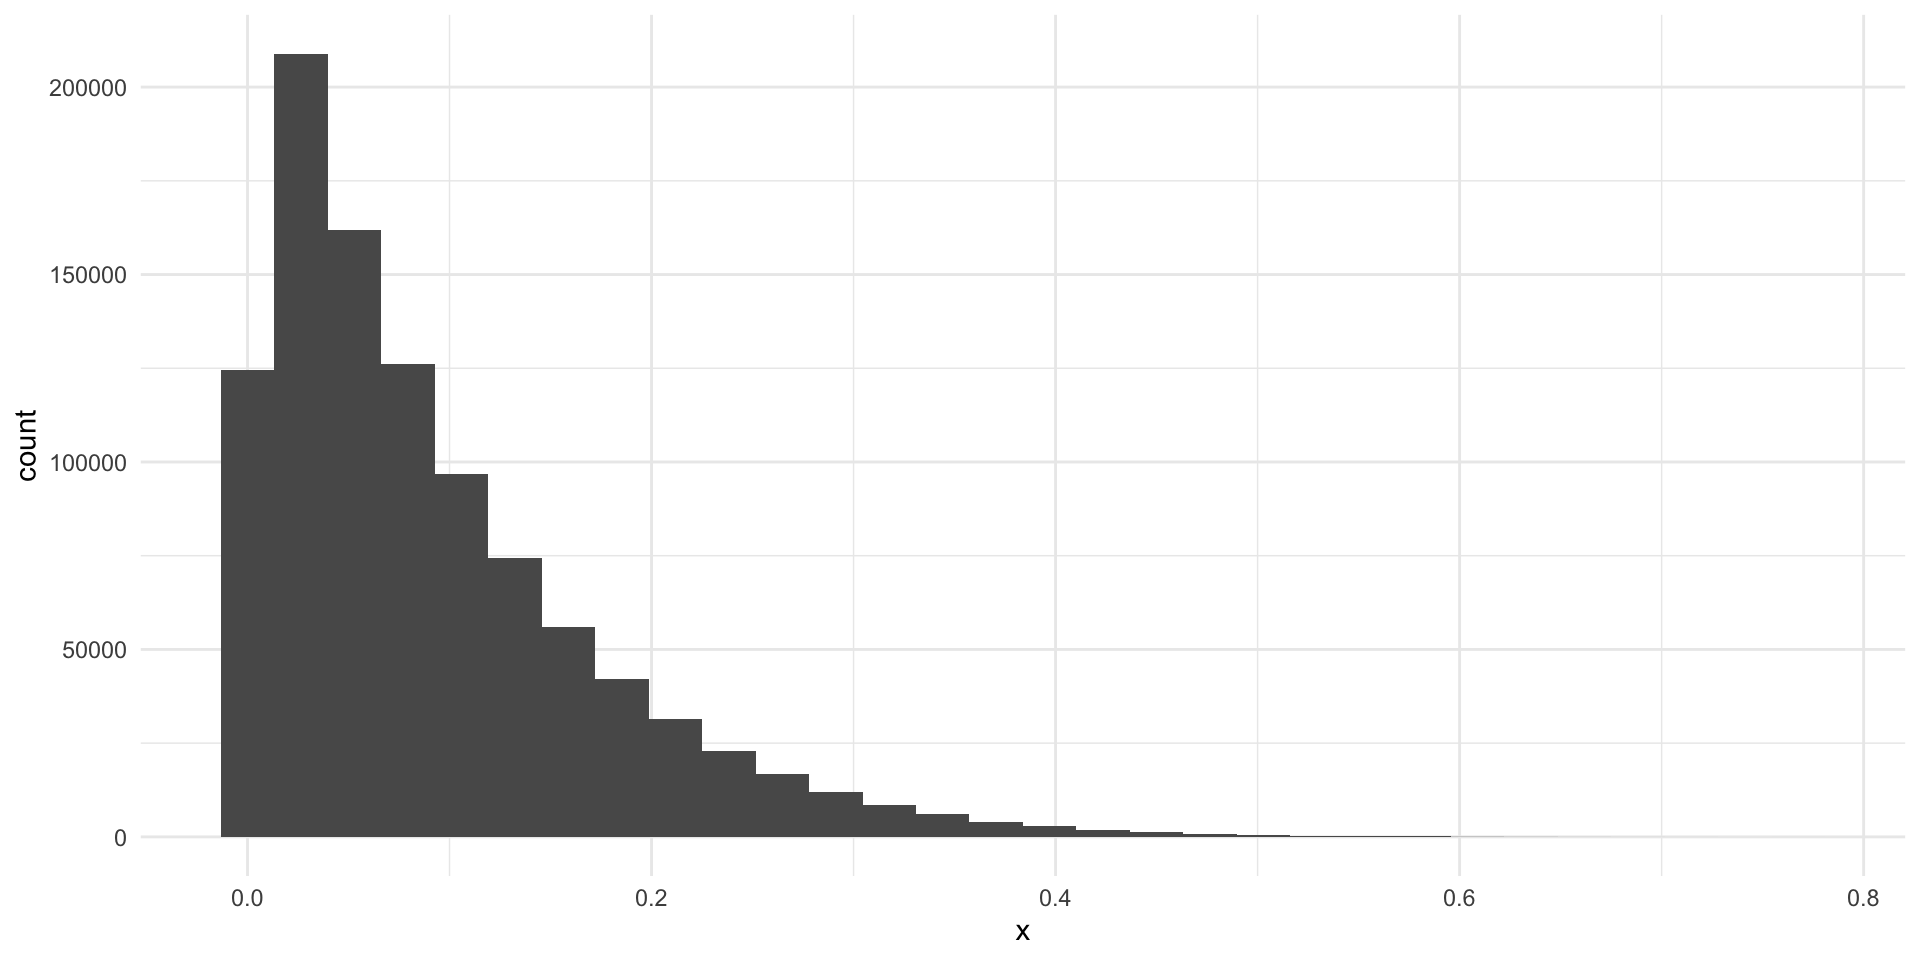
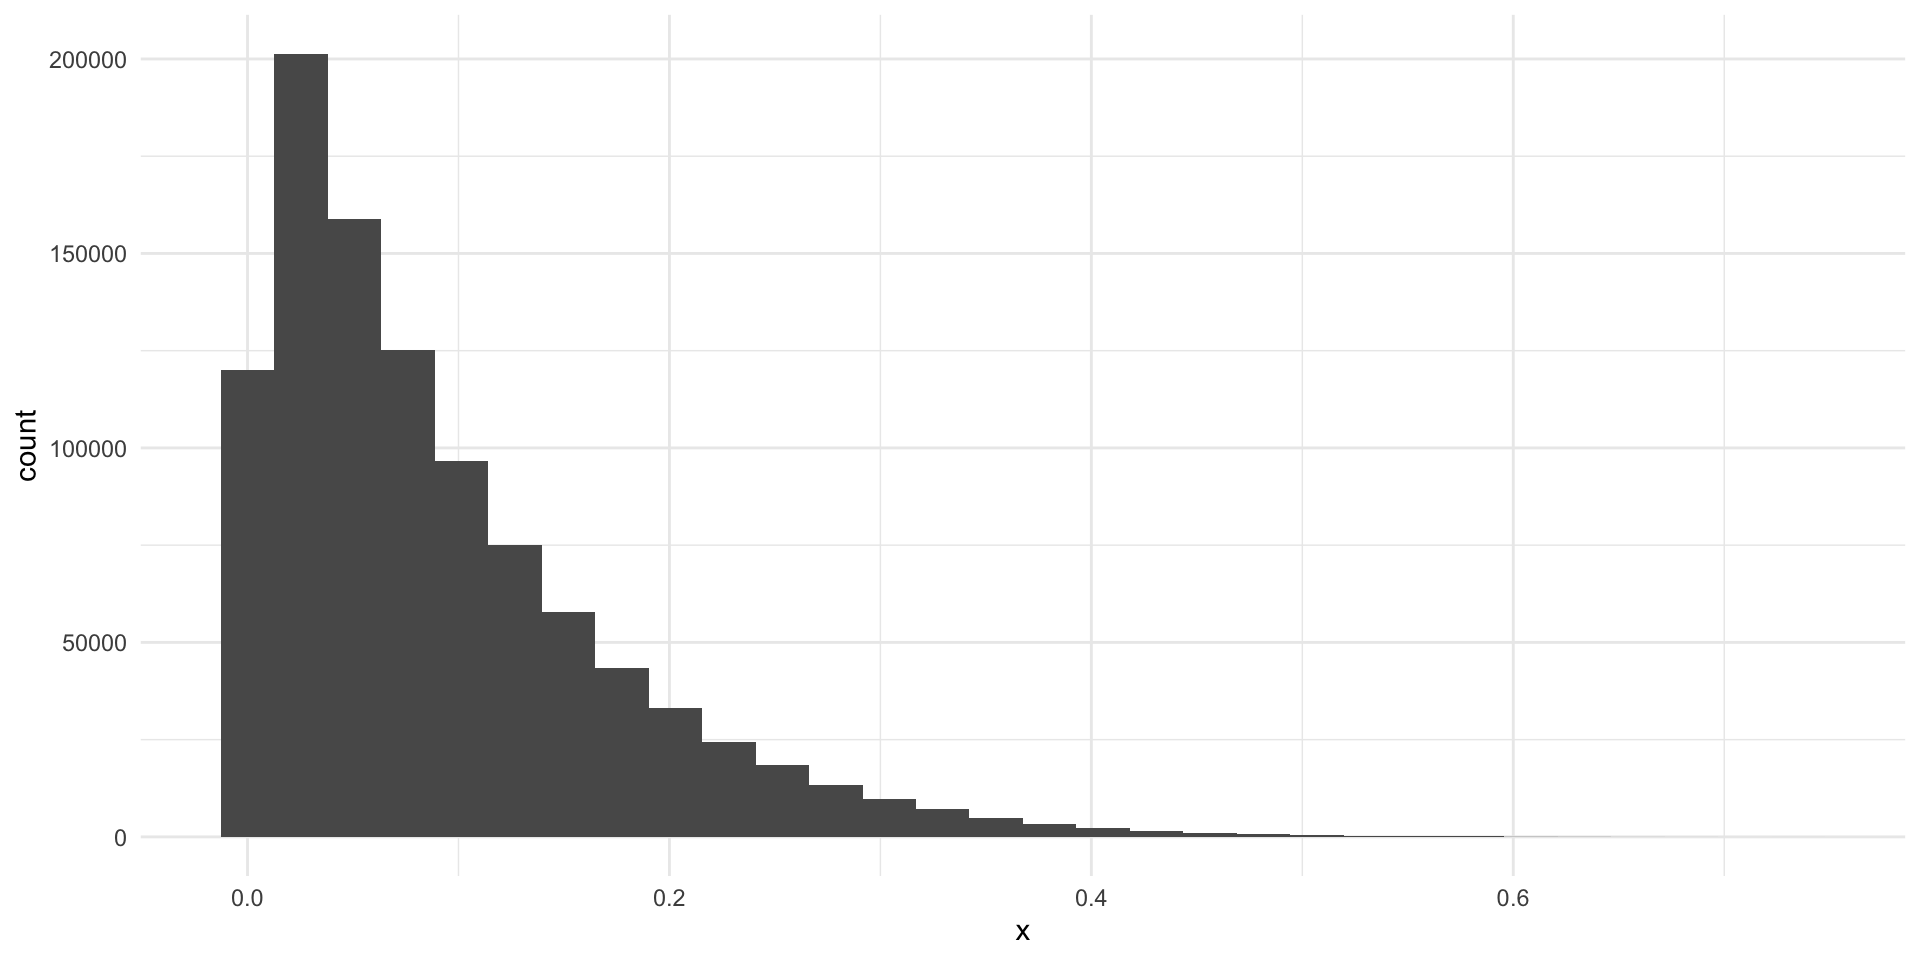
Update probability and inference

diff --git a/docs/content/07-statistical_inference.html b/docs/content/07-statistical_inference.html
@@ -253,6 +253,7 @@ pre > code.sourceCode > span > a:first-child::before { text-decoration: underlin
   <li><a href="#inferring-from-a-single-trial" id="toc-inferring-from-a-single-trial" class="nav-link" data-scroll-target="#inferring-from-a-single-trial">Inferring from a single “trial”</a></li>
   <li><a href="#how-confident-can-we-be-in-our-statistic" id="toc-how-confident-can-we-be-in-our-statistic" class="nav-link" data-scroll-target="#how-confident-can-we-be-in-our-statistic">How confident can we be in our statistic?</a></li>
   <li><a href="#choosing-your-sample-size" id="toc-choosing-your-sample-size" class="nav-link" data-scroll-target="#choosing-your-sample-size">Choosing your sample size</a></li>
+  <li><a href="#next-week" id="toc-next-week" class="nav-link" data-scroll-target="#next-week">Next week</a></li>
   </ul></li>
   </ul>
 </nav>
@@ -306,8 +307,8 @@ pre > code.sourceCode > span > a:first-child::before { text-decoration: underlin
 <h3 class="anchored" data-anchor-id="population-and-sample">Population and sample</h3>
 <p>Say we are interested in the proportion of US voters who will vote for Joe Biden in the 2024 general election. We cannot ask all US voters of their intentions. Instead, we ask a sample of the US voting population and infer from that sample the population’s intentions.</p>
 <blockquote class="blockquote">
-<p>The data point of interest among the population is referred to as the <strong>parameter</strong>. Here, it is the proportion of <em>US voters</em> who will vote for Joe Biden in the 2024 general election.</p>
-<p>The data point of interest among the sample is referred to as the <strong>statistic</strong>. Here, it is the proportion of <em>survey respondents</em> who will vote for Joe Biden in the 2024 general election.</p>
+<p>The data point of interest among the population is referred to as the <strong>parameter</strong>. Here, it is the proportion of <em>US voters</em> who intend to vote for Joe Biden in the 2024 general election.</p>
+<p>The data point of interest among the sample is referred to as the <strong>statistic</strong>. Here, it is the proportion of <em>survey respondents</em> who intend to vote for Joe Biden in the 2024 general election.</p>
 <p>We aim to have a statistic that accurately represents the parameter.</p>
 </blockquote>
 <p>When we generalize from the sample statistic to the parameter we are engaging in statistical inference.</p>
@@ -421,6 +422,7 @@ pre > code.sourceCode > span > a:first-child::before { text-decoration: underlin
 <p>The lessons we can take from this is that more is better. The more times you flip that coin, the closer you will get to the true underlying probability of a fair coin landing on heads.</p>
 <blockquote class="blockquote">
 <p>You will need to make important decisions in your own research regarding the number of samples with which you are comfortable. This will be constrained by your budget, time, and population. You will get a more accurate picture of the parameter with more data points. However, adding another 1,000,000 responses to your survey may result in a change so small it has no material impact what you infer from your analysis. If this is the case and you have a representative sample, you are well justified in not running yourself dry trying to get those extra observations.</p>
+<p>For more information on working out the smallest acceptable sample size for an experiment, look up <strong>power analysis</strong>.</p>
 </blockquote>
 </section>
 <section id="sampling-distributions" class="level3">
@@ -441,7 +443,7 @@ pre > code.sourceCode > span > a:first-child::before { text-decoration: underlin
 6   5880   0</code></pre>
 </div>
 </div>
-<p>Let’s very cheekily pretend that this is a complete survey of the entire voting population of America. That way, we can pretend that we know the proportion of US voters who identify as Democrats.</p>
+<p>Let’s very cheekily pretend that this is a complete survey of the entire voting population of America. That way, we can pretend that we know the proportion of US voters who identify as Democrats (our parameter).</p>
 <div class="cell">
 <div class="sourceCode cell-code" id="cb13"><pre class="sourceCode r code-with-copy"><code class="sourceCode r"><span id="cb13-1"><a href="#cb13-1" aria-hidden="true" tabindex="-1"></a><span class="fu">tabyl</span>(nes, dem)</span></code><button title="Copy to Clipboard" class="code-copy-button"><i class="bi"></i></button></pre></div>
 <div class="cell-output cell-output-stdout">
@@ -469,7 +471,7 @@ pre > code.sourceCode > span > a:first-child::before { text-decoration: underlin
   NA   14 0.004666667            NA</code></pre>
 </div>
 </div>
-<p>40%. Nice! But what if we took a different sample of 3,000?</p>
+<p>39.70%. Nice! But what if we took a different sample of 3,000?</p>
 <div class="cell">
 <div class="sourceCode cell-code" id="cb18"><pre class="sourceCode r code-with-copy"><code class="sourceCode r"><span id="cb18-1"><a href="#cb18-1" aria-hidden="true" tabindex="-1"></a>nes_sample_2 <span class="ot">&lt;-</span> nes <span class="sc">|&gt;</span> </span>
 <span id="cb18-2"><a href="#cb18-2" aria-hidden="true" tabindex="-1"></a>  <span class="fu">select</span>(caseid, dem) <span class="sc">|&gt;</span> </span>
@@ -484,7 +486,7 @@ pre > code.sourceCode > span > a:first-child::before { text-decoration: underlin
   NA    9   0.003            NA</code></pre>
 </div>
 </div>
-<p>We get a different answer: 40%. Of course! This is just like our different coin flip trials from last week. Each resulted in a different number of heads. The more flips we did, the closer we got to the true underlying probability distribution.</p>
+<p>We get a different answer: 40.40%. Of course! This is just like our different coin flip trials from last week. Each resulted in a different number of heads. The more flips we did, the closer we got to the true underlying probability distribution.</p>
 <p>Let’s take 1,000 different samples of 3,000 US voters and see what we get:</p>
 <div class="cell">
 <div class="sourceCode cell-code" id="cb21"><pre class="sourceCode r code-with-copy"><code class="sourceCode r"><span id="cb21-1"><a href="#cb21-1" aria-hidden="true" tabindex="-1"></a>dem_survey <span class="ot">&lt;-</span> <span class="cf">function</span>(df, n) {</span>
@@ -689,7 +691,8 @@ mean \pm z * se
 S_{\bar{x}} = \frac{S}{\sqrt{n}}
 \]</span></p>
 <p>So, as you increase that <span class="math inline">\(n\)</span>, you decrease your standard error and you narrow the interval over which you have a given level of confidence.</p>
-<p>I have said before that more is always better. Technically, this is very, very true. But those returns are marginal. And those survey costs stack up.</p>
+<p>I have said before that more is always better. Technically, this is very, very true. But those marginal returns diminish. And those survey costs stack up.</p>
+<p>To illustrate, let’s look at how much your standard error decreases as you increase your sample size.</p>
 <div class="cell">
 <div class="sourceCode cell-code" id="cb42"><pre class="sourceCode r code-with-copy"><code class="sourceCode r"><span id="cb42-1"><a href="#cb42-1" aria-hidden="true" tabindex="-1"></a>se_from_sample <span class="ot">&lt;-</span> <span class="cf">function</span>(n_samples) {</span>
 <span id="cb42-2"><a href="#cb42-2" aria-hidden="true" tabindex="-1"></a>  </span>
@@ -713,6 +716,10 @@ S_{\bar{x}} = \frac{S}{\sqrt{n}}
 </div>
 </div>
 <p>Moving from 100 to 1,000 observations in your sample dramatically decreases your standard error. Moving the same distance from 1,000 to 1,900 makes a far smaller difference to your error.</p>
+</section>
+<section id="next-week" class="level3">
+<h3 class="anchored" data-anchor-id="next-week">Next week</h3>
+<p>We will discuss the guts of quantitative analysis: hypothesis testing.</p>
 
 
 </section>

diff --git a/docs/content/06-probability_theory.html b/docs/content/06-probability_theory.html
@@ -244,7 +244,6 @@ pre > code.sourceCode > span > a:first-child::before { text-decoration: underlin
   <li><a href="#section" id="toc-section" class="nav-link" data-scroll-target="#section">Section</a>
   <ul>
   <li><a href="#prerequisites" id="toc-prerequisites" class="nav-link" data-scroll-target="#prerequisites">Prerequisites</a></li>
-  <li><a href="#how-will-what-you-learn-this-week-help-your-research" id="toc-how-will-what-you-learn-this-week-help-your-research" class="nav-link" data-scroll-target="#how-will-what-you-learn-this-week-help-your-research">How will what you learn this week help your research?</a></li>
   <li><a href="#randomness-and-avoiding-doing-the-dishes" id="toc-randomness-and-avoiding-doing-the-dishes" class="nav-link" data-scroll-target="#randomness-and-avoiding-doing-the-dishes">Randomness and avoiding doing the dishes</a></li>
   <li><a href="#independence" id="toc-independence" class="nav-link" data-scroll-target="#independence">Independence</a></li>
   <li><a href="#the-law-of-large-numbers" id="toc-the-law-of-large-numbers" class="nav-link" data-scroll-target="#the-law-of-large-numbers">The law of large numbers</a></li>
@@ -294,9 +293,6 @@ pre > code.sourceCode > span > a:first-child::before { text-decoration: underlin
 <p>Today, we are working with randomness and chance. To make sure we are all working with the same randomness and chance, you need to set your seed! <code>set.seed()</code> sets the random number generator state in which R will operate for this session. The draws we make in the session are still random, but they will be the same random draw each time we take it. This is important for replication, so you will use it outside of class.</p>
 </blockquote>
 </section>
-<section id="how-will-what-you-learn-this-week-help-your-research" class="level3">
-<h3 class="anchored" data-anchor-id="how-will-what-you-learn-this-week-help-your-research">How will what you learn this week help your research?</h3>
-</section>
 <section id="randomness-and-avoiding-doing-the-dishes" class="level3">
 <h3 class="anchored" data-anchor-id="randomness-and-avoiding-doing-the-dishes">Randomness and avoiding doing the dishes</h3>
 <p>Imagine you and a friend are trying to decide who will do the dishes after you have both cooked a very large and very messy meal. You agree to flip a coin. Should you pick heads or tails?</p>
@@ -340,9 +336,10 @@ HEADS TAILS
 <h3 class="anchored" data-anchor-id="independence">Independence</h3>
 <p>You want to maximize your chances of not doing the dishes (i.e.&nbsp;of picking the winning side of the coin). To do this, you need to know all possible outcomes (heads and tails) and the probability that each of those outcomes will eventuate. To learn this, you ran a trial in which you flipped the coin 10 times and recorded the outcome of each flip. How can you trust that this trial is revealing the true underlying probabilities of heads vs.&nbsp;tails?</p>
 <p>Each time you flipped that coin, you undertook the very process you will eventually take to decide who has to do the dishes. You will only flip that deciding coin once, so you need to know what the chances are that the coin will land on heads or tails that one time. You can’t ever observe that. If you flip a coin once, you will either see heads or tails. But we know that if we flip it again we might get a different outcome. In other words, if you flip a coin once and it lands on heads, this does not necessarily mean that the probability of heads is 1 and the probability of tails is 0 (or that you will always get heads). We use trials to try to estimate the unobservable underlying probabilities of each possible outcome of a single coin flip.</p>
-<p>To make sure that we can infer from our many observed flips the underlying and unobservable probability of heads vs.&nbsp;tails of one coin flip, we need to make sure that our trials meet certain conditions. The first is <strong>independence</strong>: the outcome of any other flips cannot impact the outcome of the current flip.</p>
+<p>To make sure that we can infer from our observed flips the underlying and unobservable probability of heads vs.&nbsp;tails of one coin flip, we need to make sure that our trials meet certain conditions. The first is <strong>independence</strong>: the outcome of any other flips cannot impact the outcome of the current flip.</p>
 <p>For example, let’s go back to our bag of 10 different marbles. Say there are 2 red, 3 blue, and 5 green marbles in your bag. You want to know the probability of drawing out a green marble. You pull out a marble. We know that there is a 20% chance your marble will be red, a 30% chance it will be blue, and a 50% chance it will be green. It is green. You then do not replace the marble before your next draw. Now, there is a 22% chance that marble will be red, a 33% chance it is blue, and a 44% chance it will be green (there are now only nine marbles in your bag: 2 red, 3, blue, and 4 green). These draws are not independent of each other! Your first draw changed the underlying probability of drawing a green marble in your second draw.</p>
-<p>If your draws are independent of one another, you can infer from the results of the trial the underlying probability of each outcome eventuating. But we did that and we still got uneven results:</p>
+<p>If your draws are independent of one another, you can infer from the results of the trial the underlying probability of each outcome eventuating.</p>
+<p>But hold on: we did that and we still got uneven results!</p>
 <div class="cell">
 <div class="sourceCode cell-code" id="cb8"><pre class="sourceCode r code-with-copy"><code class="sourceCode r"><span id="cb8-1"><a href="#cb8-1" aria-hidden="true" tabindex="-1"></a><span class="fu">table</span>(repeat_trials)</span></code><button title="Copy to Clipboard" class="code-copy-button"><i class="bi"></i></button></pre></div>
 <div class="cell-output cell-output-stdout">
@@ -392,7 +389,7 @@ HEADS TAILS
 </div>
 </div>
 <p>6 or 60% of our 10 trials resulted in two of the same outcomes. How can we be confident that our trials are good reflections of the actual distribution of probabilities?</p>
-<p>The law of large numbers suggests that when your population of independent observations has a finite mean, as the number of observations drawn increases, the mean of the observed values in the sample approaches the mean of the population.</p>
+<p>The <strong>law of large numbers</strong> suggests that when your population of independent observations has a finite mean, as the number of observations drawn increases, the mean of the observed values in the sample approaches the mean of the population.</p>
 <p>In other words, the more flips you do, the closer you will get to the true underlying distribution of probabilities. Cool!</p>
 <p>Let’s try this out.</p>
 <p>First, let’s flip the coin 10 times:</p>

diff --git a/docs/content/02-descriptive_statistics.html b/docs/content/02-descriptive_statistics.html
@@ -817,18 +817,18 @@ s^2 = \frac{\Sigma(x_i - \bar{x})^2}{n - 1}
 <span id="cb27-8"><a href="#cb27-8" aria-hidden="true" tabindex="-1"></a>wide_var_calc</span></code><button title="Copy to Clipboard" class="code-copy-button"><i class="bi"></i></button></pre></div>
 <div class="cell-output cell-output-stdout">
 <pre><code># A tibble: 1,000,000 × 4
-         x     mean    diff    diff_2
-     &lt;dbl&gt;    &lt;dbl&gt;   &lt;dbl&gt;     &lt;dbl&gt;
- 1 -1.99   -0.00110 -1.99    3.94    
- 2 -0.0208 -0.00110 -0.0197  0.000387
- 3 -0.705  -0.00110 -0.704   0.495   
- 4 -0.974  -0.00110 -0.973   0.946   
- 5 -0.416  -0.00110 -0.415   0.172   
- 6  0.267  -0.00110  0.268   0.0717  
- 7  0.0308 -0.00110  0.0319  0.00102 
- 8 -3.30   -0.00110 -3.30   10.9     
- 9 -0.621  -0.00110 -0.620   0.385   
-10 -2.01   -0.00110 -2.01    4.02    
+        x    mean   diff  diff_2
+    &lt;dbl&gt;   &lt;dbl&gt;  &lt;dbl&gt;   &lt;dbl&gt;
+ 1 -1.78  0.00322 -1.79   3.19  
+ 2 -0.296 0.00322 -0.299  0.0896
+ 3 -1.02  0.00322 -1.02   1.04  
+ 4 -4.03  0.00322 -4.04  16.3   
+ 5 -1.27  0.00322 -1.28   1.63  
+ 6 -1.55  0.00322 -1.55   2.41  
+ 7  0.264 0.00322  0.261  0.0681
+ 8  1.52  0.00322  1.52   2.30  
+ 9  0.653 0.00322  0.650  0.422 
+10 -1.53  0.00322 -1.53   2.36  
 # ℹ 999,990 more rows</code></pre>
 </div>
 </div>
@@ -838,7 +838,7 @@ s^2 = \frac{\Sigma(x_i - \bar{x})^2}{n - 1}
 <span id="cb29-2"><a href="#cb29-2" aria-hidden="true" tabindex="-1"></a></span>
 <span id="cb29-3"><a href="#cb29-3" aria-hidden="true" tabindex="-1"></a>wide_var</span></code><button title="Copy to Clipboard" class="code-copy-button"><i class="bi"></i></button></pre></div>
 <div class="cell-output cell-output-stdout">
-<pre><code>[1] 4.000166</code></pre>
+<pre><code>[1] 3.997437</code></pre>
 </div>
 </div>
 <p>We can compare this to the variance for our narrower distribution.</p>
@@ -854,7 +854,7 @@ s^2 = \frac{\Sigma(x_i - \bar{x})^2}{n - 1}
 <span id="cb31-9"><a href="#cb31-9" aria-hidden="true" tabindex="-1"></a></span>
 <span id="cb31-10"><a href="#cb31-10" aria-hidden="true" tabindex="-1"></a>narrow_var</span></code><button title="Copy to Clipboard" class="code-copy-button"><i class="bi"></i></button></pre></div>
 <div class="cell-output cell-output-stdout">
-<pre><code>[1] 1.001632</code></pre>
+<pre><code>[1] 1.001458</code></pre>
 </div>
 </div>
 <p>It is, in fact, smaller!</p>
@@ -863,14 +863,14 @@ s^2 = \frac{\Sigma(x_i - \bar{x})^2}{n - 1}
 <div class="sourceCode cell-code" id="cb33"><pre class="sourceCode r code-with-copy"><code class="sourceCode r"><span id="cb33-1"><a href="#cb33-1" aria-hidden="true" tabindex="-1"></a><span class="fu">var</span>(wide_dist)</span></code><button title="Copy to Clipboard" class="code-copy-button"><i class="bi"></i></button></pre></div>
 <div class="cell-output cell-output-stdout">
 <pre><code>         x
-x 4.000166</code></pre>
+x 3.997437</code></pre>
 </div>
 </div>
 <div class="cell">
 <div class="sourceCode cell-code" id="cb35"><pre class="sourceCode r code-with-copy"><code class="sourceCode r"><span id="cb35-1"><a href="#cb35-1" aria-hidden="true" tabindex="-1"></a><span class="fu">var</span>(narrow_dist)</span></code><button title="Copy to Clipboard" class="code-copy-button"><i class="bi"></i></button></pre></div>
 <div class="cell-output cell-output-stdout">
 <pre><code>         x
-x 1.001632</code></pre>
+x 1.001458</code></pre>
 </div>
 </div>
 <div class="cell">
@@ -887,26 +887,26 @@ x TRUE</code></pre>
 <div class="cell">
 <div class="sourceCode cell-code" id="cb39"><pre class="sourceCode r code-with-copy"><code class="sourceCode r"><span id="cb39-1"><a href="#cb39-1" aria-hidden="true" tabindex="-1"></a><span class="fu">sqrt</span>(wide_var)</span></code><button title="Copy to Clipboard" class="code-copy-button"><i class="bi"></i></button></pre></div>
 <div class="cell-output cell-output-stdout">
-<pre><code>[1] 2.000041</code></pre>
+<pre><code>[1] 1.999359</code></pre>
 </div>
 </div>
 <div class="cell">
 <div class="sourceCode cell-code" id="cb41"><pre class="sourceCode r code-with-copy"><code class="sourceCode r"><span id="cb41-1"><a href="#cb41-1" aria-hidden="true" tabindex="-1"></a><span class="fu">sqrt</span>(narrow_var)</span></code><button title="Copy to Clipboard" class="code-copy-button"><i class="bi"></i></button></pre></div>
 <div class="cell-output cell-output-stdout">
-<pre><code>[1] 1.000815</code></pre>
+<pre><code>[1] 1.000729</code></pre>
 </div>
 </div>
 <p>You can get this directly using <code>sd()</code>:</p>
 <div class="cell">
 <div class="sourceCode cell-code" id="cb43"><pre class="sourceCode r code-with-copy"><code class="sourceCode r"><span id="cb43-1"><a href="#cb43-1" aria-hidden="true" tabindex="-1"></a><span class="fu">sd</span>(wide_dist<span class="sc">$</span>x)</span></code><button title="Copy to Clipboard" class="code-copy-button"><i class="bi"></i></button></pre></div>
 <div class="cell-output cell-output-stdout">
-<pre><code>[1] 2.000041</code></pre>
+<pre><code>[1] 1.999359</code></pre>
 </div>
 </div>
 <div class="cell">
 <div class="sourceCode cell-code" id="cb45"><pre class="sourceCode r code-with-copy"><code class="sourceCode r"><span id="cb45-1"><a href="#cb45-1" aria-hidden="true" tabindex="-1"></a><span class="fu">sd</span>(narrow_dist<span class="sc">$</span>x)</span></code><button title="Copy to Clipboard" class="code-copy-button"><i class="bi"></i></button></pre></div>
 <div class="cell-output cell-output-stdout">
-<pre><code>[1] 1.000815</code></pre>
+<pre><code>[1] 1.000729</code></pre>
 </div>
 </div>
 <p>If you look back to our graphs, you will see that I set the standard deviations explicitly when I generated the data: <code>rnorm()</code> takes an <code>sd</code> argument. This is great because we can confirm that the standard deviations for the wide and narrow distributions are 2 and 1 respectively (with a little bit of noise).</p>
@@ -972,12 +972,12 @@ z_i = \frac{x_i - \mu_x}{\sigma_x}
 <pre><code># A tibble: 6 × 4
       x  mean    sd z_score
   &lt;dbl&gt; &lt;dbl&gt; &lt;dbl&gt;   &lt;dbl&gt;
-1  5.76  5.00  2.00   0.381
-2  4.64  5.00  2.00  -0.177
-3  5.42  5.00  2.00   0.209
-4  1.34  5.00  2.00  -1.82 
-5  3.82  5.00  2.00  -0.591
-6  7.19  5.00  2.00   1.10 </code></pre>
+1  3.58  5.00  2.00  -0.709
+2  5.42  5.00  2.00   0.210
+3  1.31  5.00  2.00  -1.85 
+4  7.39  5.00  2.00   1.20 
+5  6.78  5.00  2.00   0.895
+6  6.39  5.00  2.00   0.698</code></pre>
 </div>
 </div>
 <p>We can confirm this:</p>
